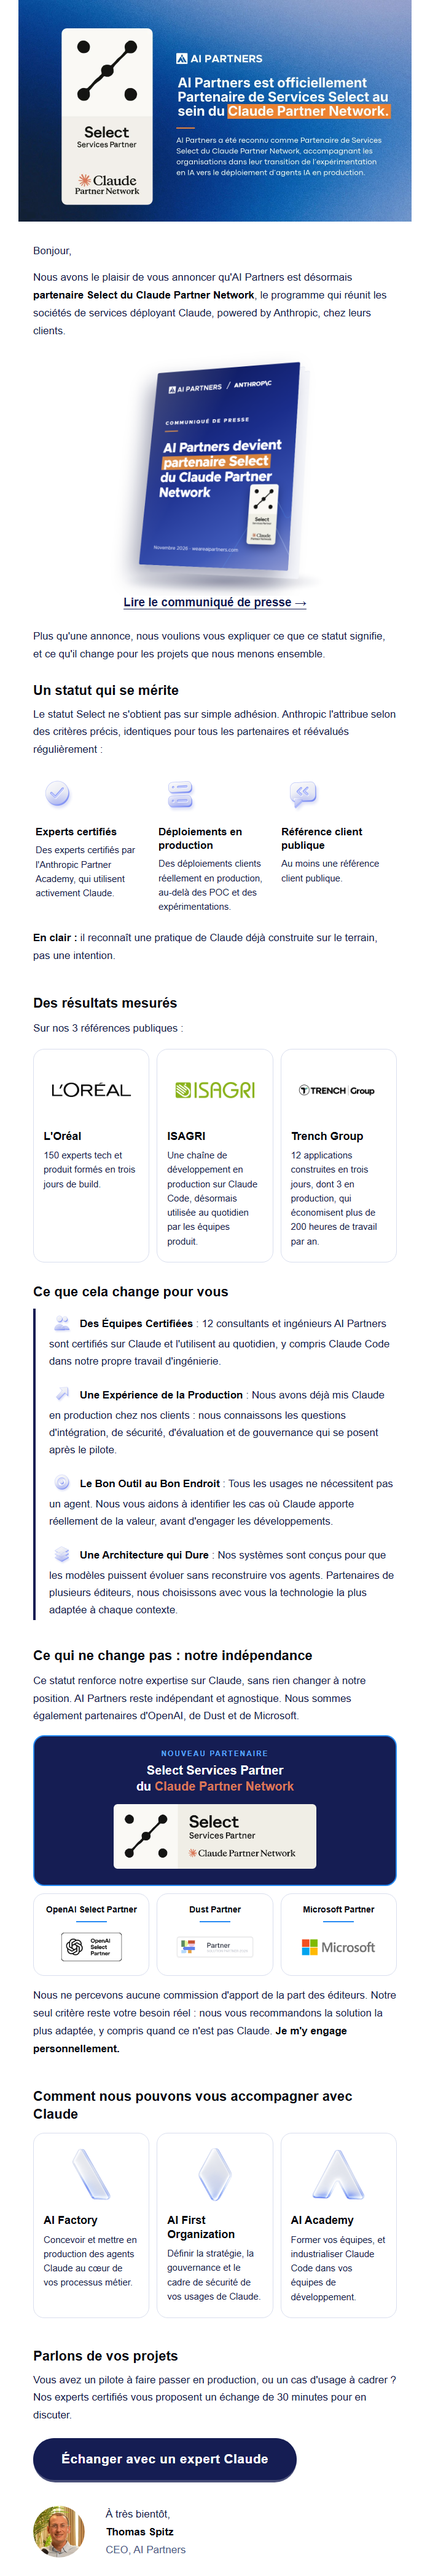
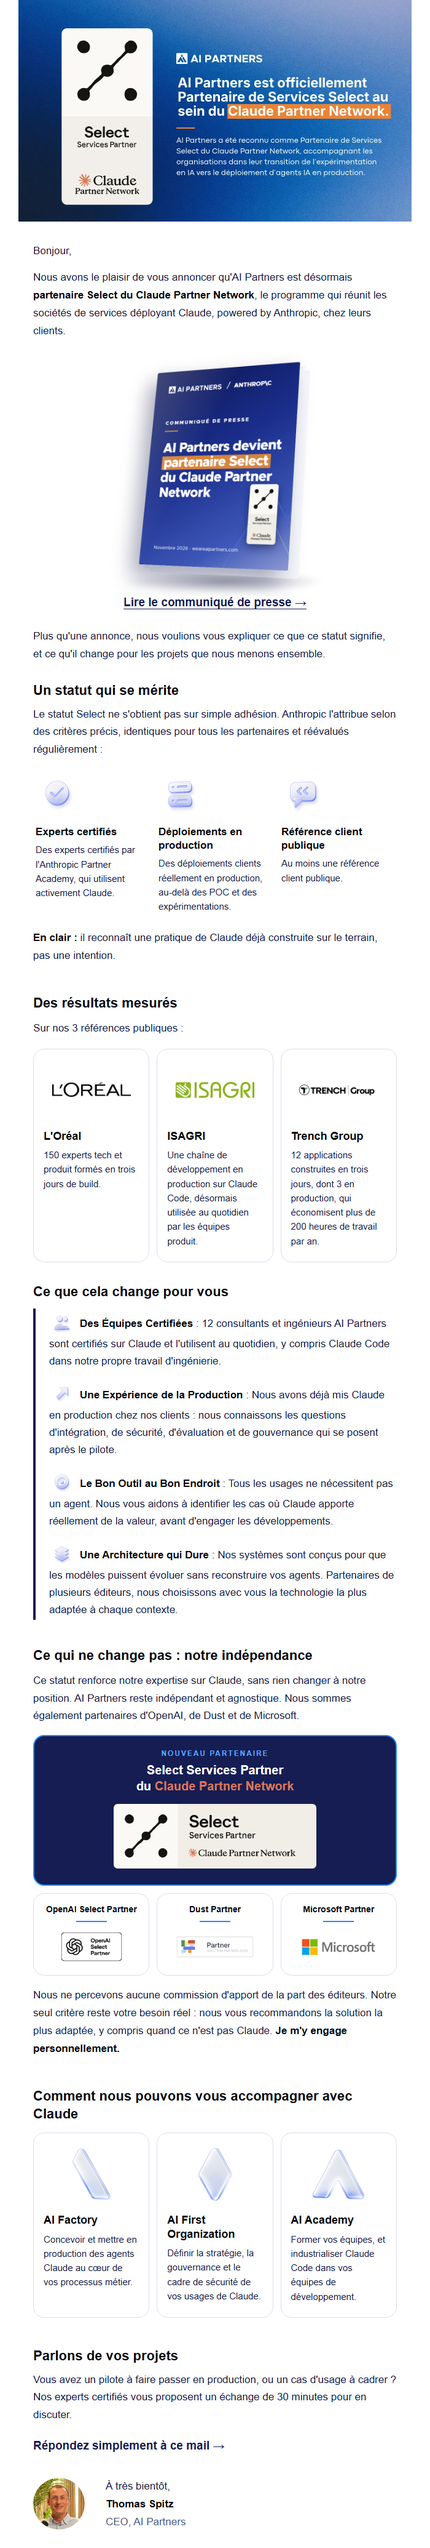
Mail d'annonce v2 : « Répondez simplement à ce mail » à la place du bouton d'agenda (retour d'Arthur 16/11)

Changed region(s): [[0.06, 0.0312, 0.93, 0.9971], [0.87, 0.2493, 0.9, 0.2804], [0.84, 0.3428, 0.87, 0.3739]]

diff --git a/PRESENTATIONS/2026-11_newsletter_anthropic_select/v2/email_hubspot_module.html b/PRESENTATIONS/2026-11_newsletter_anthropic_select/v2/email_hubspot_module.html
@@ -17,7 +17,7 @@
 <tr><td style="padding:4px 4px 34px 4px"><table role="presentation" width="100%" cellpadding="0" cellspacing="0" style="border-collapse:separate"><tr><td valign="top" width="32%" bgcolor="#FFFFFF" style="width:32%;background-color:#FFFFFF;border:1px solid #D9DEEE;border-radius:18px;padding:18px 16px 22px 16px"><img src="https://arthurw31.github.io/ai-partners-podcast-content-machine/newsletters/anthropic-select/v2/forme_barre_96.png" width="96" height="96" alt="" style="display:block;border:0;width:96px;height:96px;margin:0 auto"><div style="padding:16px 0 8px 0;font-family:Helvetica, Arial, sans-serif;font-size:18px;line-height:1.25;font-weight:bold;color:#05070F">AI Factory</div><div style="font-family:Helvetica, Arial, sans-serif;font-size:15px;line-height:1.55;color:#141B45">Concevoir et mettre en production des agents Claude au cœur de vos processus métier.</div></td><td width="2%" style="width:2%;font-size:0;line-height:0">&nbsp;</td><td valign="top" width="32%" bgcolor="#FFFFFF" style="width:32%;background-color:#FFFFFF;border:1px solid #D9DEEE;border-radius:18px;padding:18px 16px 22px 16px"><img src="https://arthurw31.github.io/ai-partners-podcast-content-machine/newsletters/anthropic-select/v2/forme_losange_96.png" width="96" height="96" alt="" style="display:block;border:0;width:96px;height:96px;margin:0 auto"><div style="padding:16px 0 8px 0;font-family:Helvetica, Arial, sans-serif;font-size:18px;line-height:1.25;font-weight:bold;color:#05070F">AI First Organization</div><div style="font-family:Helvetica, Arial, sans-serif;font-size:15px;line-height:1.55;color:#141B45">Définir la stratégie, la gouvernance et le cadre de sécurité de vos usages de Claude.</div></td><td width="2%" style="width:2%;font-size:0;line-height:0">&nbsp;</td><td valign="top" width="32%" bgcolor="#FFFFFF" style="width:32%;background-color:#FFFFFF;border:1px solid #D9DEEE;border-radius:18px;padding:18px 16px 22px 16px"><img src="https://arthurw31.github.io/ai-partners-podcast-content-machine/newsletters/anthropic-select/v2/forme_A_96.png" width="96" height="96" alt="" style="display:block;border:0;width:96px;height:96px;margin:0 auto"><div style="padding:16px 0 8px 0;font-family:Helvetica, Arial, sans-serif;font-size:18px;line-height:1.25;font-weight:bold;color:#05070F">AI Academy</div><div style="font-family:Helvetica, Arial, sans-serif;font-size:15px;line-height:1.55;color:#141B45">Former vos équipes, et industrialiser Claude Code dans vos équipes de développement.</div></td></tr></table></td></tr>
 <tr><td style="padding:14px 4px 10px 4px"><h2 style="margin:0;font-family:Helvetica, Arial, sans-serif;font-size:22px;line-height:1.3;font-weight:bold;color:#05070F">Parlons de vos projets</h2></td></tr>
 <tr><td style="padding:0 4px 22px 4px;font-family:Helvetica, Arial, sans-serif;font-size:17px;line-height:1.7;color:#141B45">Vous avez un pilote à faire passer en production, ou un cas d'usage à cadrer&nbsp;? Nos experts certifiés vous proposent un échange de 30 minutes pour en discuter.</td></tr>
-<tr><td style="padding:0 4px 38px 4px"><table role="presentation" cellpadding="0" cellspacing="0" style="margin:0"><tr><td bgcolor="#484E78" style="border-radius:999px;padding:0 0 4px 0"><table role="presentation" cellpadding="0" cellspacing="0"><tr><td bgcolor="#151D53" style="border-radius:999px"><a href="https://calendly.com/" style="display:inline-block;padding:22px 46px;font-family:Helvetica, Arial, sans-serif;font-size:21px;font-weight:bold;letter-spacing:.02em;color:#FFFFFF;text-decoration:none">Échanger avec un expert Claude</a></td></tr></table></td></tr></table></td></tr>
+<tr><td style="padding:0 4px 38px 4px;font-family:Helvetica, Arial, sans-serif;font-size:19px;line-height:1.4;font-weight:bold;color:#151D53">Répondez simplement à ce mail &rarr;</td></tr>
 <tr><td style="padding:0 4px"><table role="presentation" cellpadding="0" cellspacing="0"><tr>
 <td valign="top" width="100" style="width:100px;padding:0 18px 0 0"><img src="https://arthurw31.github.io/ai-partners-podcast-content-machine/newsletters/anthropic-select/v2/thomas_portrait.jpg" width="84" height="84" alt="Thomas Spitz, CEO d'AI Partners" style="display:block;border:0;border-radius:42px;width:84px;height:84px"></td>
 <td valign="middle" style="font-family:Helvetica, Arial, sans-serif;font-size:17px;line-height:1.7;color:#141B45">À très bientôt,<br><strong style="color:#05070F">Thomas Spitz</strong><br><span style="color:#4A5683">CEO, AI Partners</span></td></tr></table></td></tr>

diff --git a/PRESENTATIONS/2026-11_newsletter_anthropic_select/v2/email.html b/PRESENTATIONS/2026-11_newsletter_anthropic_select/v2/email.html
@@ -21,7 +21,7 @@
 <tr><td style="padding:4px 4px 34px 4px"><table role="presentation" width="100%" cellpadding="0" cellspacing="0" style="border-collapse:separate"><tr><td valign="top" width="32%" bgcolor="#FFFFFF" style="width:32%;background-color:#FFFFFF;border:1px solid #D9DEEE;border-radius:18px;padding:18px 16px 22px 16px"><img src="images/forme_barre_96.png" width="96" height="96" alt="" style="display:block;border:0;width:96px;height:96px;margin:0 auto"><div style="padding:16px 0 8px 0;font-family:Helvetica, Arial, sans-serif;font-size:18px;line-height:1.25;font-weight:bold;color:#05070F">AI Factory</div><div style="font-family:Helvetica, Arial, sans-serif;font-size:15px;line-height:1.55;color:#141B45">Concevoir et mettre en production des agents Claude au cœur de vos processus métier.</div></td><td width="2%" style="width:2%;font-size:0;line-height:0">&nbsp;</td><td valign="top" width="32%" bgcolor="#FFFFFF" style="width:32%;background-color:#FFFFFF;border:1px solid #D9DEEE;border-radius:18px;padding:18px 16px 22px 16px"><img src="images/forme_losange_96.png" width="96" height="96" alt="" style="display:block;border:0;width:96px;height:96px;margin:0 auto"><div style="padding:16px 0 8px 0;font-family:Helvetica, Arial, sans-serif;font-size:18px;line-height:1.25;font-weight:bold;color:#05070F">AI First Organization</div><div style="font-family:Helvetica, Arial, sans-serif;font-size:15px;line-height:1.55;color:#141B45">Définir la stratégie, la gouvernance et le cadre de sécurité de vos usages de Claude.</div></td><td width="2%" style="width:2%;font-size:0;line-height:0">&nbsp;</td><td valign="top" width="32%" bgcolor="#FFFFFF" style="width:32%;background-color:#FFFFFF;border:1px solid #D9DEEE;border-radius:18px;padding:18px 16px 22px 16px"><img src="images/forme_A_96.png" width="96" height="96" alt="" style="display:block;border:0;width:96px;height:96px;margin:0 auto"><div style="padding:16px 0 8px 0;font-family:Helvetica, Arial, sans-serif;font-size:18px;line-height:1.25;font-weight:bold;color:#05070F">AI Academy</div><div style="font-family:Helvetica, Arial, sans-serif;font-size:15px;line-height:1.55;color:#141B45">Former vos équipes, et industrialiser Claude Code dans vos équipes de développement.</div></td></tr></table></td></tr>
 <tr><td style="padding:14px 4px 10px 4px"><h2 style="margin:0;font-family:Helvetica, Arial, sans-serif;font-size:22px;line-height:1.3;font-weight:bold;color:#05070F">Parlons de vos projets</h2></td></tr>
 <tr><td style="padding:0 4px 22px 4px;font-family:Helvetica, Arial, sans-serif;font-size:17px;line-height:1.7;color:#141B45">Vous avez un pilote à faire passer en production, ou un cas d'usage à cadrer&nbsp;? Nos experts certifiés vous proposent un échange de 30 minutes pour en discuter.</td></tr>
-<tr><td style="padding:0 4px 38px 4px"><table role="presentation" cellpadding="0" cellspacing="0" style="margin:0"><tr><td bgcolor="#484E78" style="border-radius:999px;padding:0 0 4px 0"><table role="presentation" cellpadding="0" cellspacing="0"><tr><td bgcolor="#151D53" style="border-radius:999px"><a href="https://calendly.com/" style="display:inline-block;padding:22px 46px;font-family:Helvetica, Arial, sans-serif;font-size:21px;font-weight:bold;letter-spacing:.02em;color:#FFFFFF;text-decoration:none">Échanger avec un expert Claude</a></td></tr></table></td></tr></table></td></tr>
+<tr><td style="padding:0 4px 38px 4px;font-family:Helvetica, Arial, sans-serif;font-size:19px;line-height:1.4;font-weight:bold;color:#151D53">Répondez simplement à ce mail &rarr;</td></tr>
 <tr><td style="padding:0 4px"><table role="presentation" cellpadding="0" cellspacing="0"><tr>
 <td valign="top" width="100" style="width:100px;padding:0 18px 0 0"><img src="images/thomas_portrait.jpg" width="84" height="84" alt="Thomas Spitz, CEO d'AI Partners" style="display:block;border:0;border-radius:42px;width:84px;height:84px"></td>
 <td valign="middle" style="font-family:Helvetica, Arial, sans-serif;font-size:17px;line-height:1.7;color:#141B45">À très bientôt,<br><strong style="color:#05070F">Thomas Spitz</strong><br><span style="color:#4A5683">CEO, AI Partners</span></td></tr></table></td></tr>

diff --git a/PRESENTATIONS/2026-11_newsletter_anthropic_select/v2/build_v2.py b/PRESENTATIONS/2026-11_newsletter_anthropic_select/v2/build_v2.py
@@ -130,7 +130,13 @@ def build() -> str:
     h = h[:a] + clients() + h[a:]
     b = h.index('<tr><td style="padding:14px 4px 12px 4px"><h2 style="margin:0;font-family:Helvetica, Arial, sans-serif;font-size:22px;'
                 'line-height:1.3;font-weight:bold;color:#05070F">Comment nous pouvons vous accompagner')
-    return h[:b] + independence() + h[b:]
+    h = h[:b] + independence() + h[b:]
+    # pas de bouton d'agenda : une simple indication (Arthur, 16/11/2026 : « Répondez au mail », comme dans la V6 de Thomas)
+    i = h.index('<tr><td style="padding:0 4px 38px 4px"><table role="presentation" cellpadding="0" cellspacing="0" style="margin:0">')
+    j = h.index("</td></tr></table></td></tr></table></td></tr>", i) + len("</td></tr></table></td></tr></table></td></tr>")
+    assert "calendly" in h[i:j]
+    return (h[:i] + f'<tr><td style="padding:0 4px 38px 4px;{F};font-size:19px;line-height:1.4;font-weight:bold;color:{NAVY}">'
+            f'Répondez simplement à ce mail &rarr;</td></tr>' + h[j:])
 
 
 def module(h: str) -> str:
